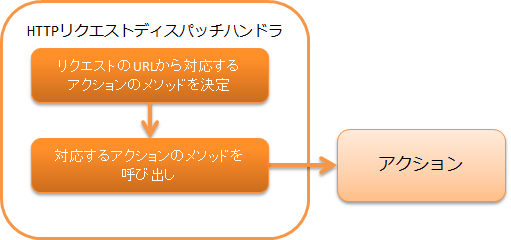
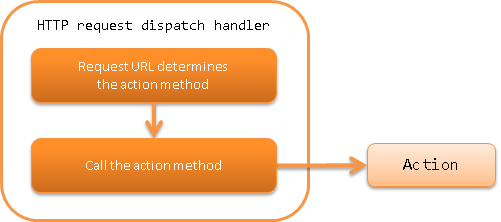
HTTPリクエストディスパッチハンドラページを英語化

diff --git a/en/application_framework/application_framework/handlers/web/http_request_java_package_mapping.rst b/en/application_framework/application_framework/handlers/web/http_request_java_package_mapping.rst
@@ -1,70 +1,70 @@
 .. _http_request_java_package_mapping:
 
-HTTPリクエストディスパッチハンドラ
+HTTP Request Dispatch Handler
 ==================================================
 
-.. contents:: 目次
+.. contents:: Table of contents
   :depth: 3
   :local:
 
 
-本ハンドラは、アプリケーションの機能ごとに行う処理を記載するアクションに処理を委譲する。\
-委譲先のクラス、メソッドは、アクセスしたURLによって決定される。\
-本クラスを使用したディスパッチでは、URL形式は下記の通りであることを想定している。
+This handler delegates processing to an action that describes the process to be performed for each function of the application.\
+The delegated class and method are determined by the accessed URL.\
+The URL format is assumed to be as follows for the dispatch using this class.
 
-URL形式
+URL format
   /\<baseUri\>/\<className\>/\<methodName\>
 
-上記形式の\<\>で囲まれた部分はそれぞれ下記を意味する。
+Each of the parts enclosed by \<\> in the above format have the following meanings.
 
 .. list-table::
   :class: white-space-normal
   :header-rows: 1
   :widths: 20 80
 
-  * - ラベル
-    - 意味
-  
+  * - Label
+    - Description
+
   * - baseUri
-    - コンテキストルートからの相対パス
+    - Relative path from the context root
 
   * - className
-    - クラス名
+    - Class name
 
-  * - methodName    
-    - アクションクラスのメソッド名は、HTTPのメソッド + メソッド名として実装する。
+  * - methodName
+    - Implement method name of action class as HTTP method + method name.
 
-      httpのメソッドが ``post`` の場合で、URLのmethodNameが ``register`` の場合には、
-      アクションクラスのメソッド名は、 ``postRegister`` とする。
+      When the http method is ``post`` and URL methodName is ``register``,
+      the action class method name is ``postRegister``.
 
-      なお、 ``get`` と ``post`` の場合には、 ``do`` を使用できる。
-      上記の例の場合、 ``doRegister`` となる。
+      In addition, ``do`` can be used for ``get`` and ``post``.
+      In the above example, it is ``doRegister``.
 
 .. tip::
-  URLとアクションとのマッピングの指定方法については、 :ref:`java_package_mapping_entry-dispatch_settings` を参照。
+  Refer to :ref:`java_package_mapping_entry-dispatch_settings` on how to specify the mapping between URL and action.
 
 .. _http_request_java_package_mapping-router_adaptor:
 
 .. important::
-  HTTPリクエストディスパッチハンドラでは、クラス名を元にURLが決まるため、柔軟なURLを使用することができない。
-  例えば、  ``/user/index`` のようなURLを使用したい場合、クラス名を ``user`` とする必要がある。
-  これは、Javaの一般的なクラス名の規約に違反しており、推奨されない。
+  Since the URL is decided based on the class name in the HTTP request dispatch handler, flexible URL cannot be used.
+  For example, to use ``/user/index`` as a URL, the class name has to be configured as ``user``.
+  This violates the general Java conventions for class name and is not recommended.
 
-  このため、このハンドラを使うよりも、URLとアクションクラスとのマッピングを柔軟に設定できる :ref:`router_adaptor` を使用することを推奨する。
+  Therefore, rather than using this handler, the use of :ref:`router_adaptor` is recommended that can flexibly configure the mapping between URL and action class.
 
-本ハンドラでは、以下の処理を行う。
+This handler performs the following process.
 
-* URIを解析し、対応するアクションのメソッドを呼び出す。
+* Analyzes the URI and calls the method of the corresponding action.
 
-処理の流れは以下のとおり。
+The process flow is as follows.
 
 .. image:: ../images/HttpRequestJavaPackageMapping/flow.png
 
-ハンドラクラス名
+Handler class name
 --------------------------------------------------
 * :java:extdoc:`nablarch.fw.web.handler.HttpRequestJavaPackageMapping`
 
-モジュール一覧
+Module list
 --------------------------------------------------
 .. code-block:: xml
 
@@ -72,22 +72,22 @@ URL形式
     <groupId>com.nablarch.framework</groupId>
     <artifactId>nablarch-fw-web</artifactId>
   </dependency>
-  
-制約
+
+Constraints
 -----------------------
 
-ハンドラキューの最後に置くこと
-  本ハンドラは、後続のハンドラの呼び出しを行わない。
-  このため、本ハンドラの配置はハンドラキューの最後に置くこと。
+Should be placed at the end of the handler queue
+  This handler does not call subsequent handlers.
+  Therefore, place this handler at the end of the handler queue.
 
 
 .. _java_package_mapping_entry-dispatch_settings:
 
-ディスパッチの設定を行う
+Configure dispatch settings
 ----------------------------------------------------------------------------------------------------
 
-本クラスを使用する際は、前述の baseUri と、アクションを配置するパッケージ(ベースパッケージ)の設定が必須となる。
-以下にbaseUri を ``action`` 、ベースパッケージを ``jp.co.tis.nablarch.example`` に設定する例を示す。
+When using this class, baseUri described above and package (base package) in which the action is placed are required to be configured.
+Below is an example of configuring baseUri to ``action`` and base package to ``jp.co.tis.nablarch.example``.
 
 .. code-block:: xml
 
@@ -97,21 +97,21 @@ URL形式
     <property name="basePackage" value="jp.co.tis.nablarch.example"/>
   </component>
 
-上記設定の場合のディスパッチ例を以下に示す。
+A dispatch example for the above configuration is shown below.
 
 :URL: /action/UserAction/index
-:ディスパッチ先クラス: jp.co.tis.nablarch.example.UserAction
+:Dispatch destination class: jp.co.tis.nablarch.example.UserAction
 
 .. _java_package_mapping_entry-multi_package:
 
-アクションが複数のパッケージに配置される場合の設定を行う
+Configure settings when actions are placed in multiple packages
 -------------------------------------------------------------------------------------
 
-アクションは、複数のパッケージにまたがって配置できる。
-この場合、前述の :ref:`java_package_mapping_entry-dispatch_settings` に記載のベースパッケージを全Actionが置かれるパッケージに
-設定し、URIのクラス名にベースパッケージから対応づける Action までのパスを記載する。
+Actions can be placed across multiple packages.
+In this case, configure the base package described in :ref:`java_package_mapping_entry-dispatch_settings` above to the package
+where all Actions are placed, and describe the path from the base package to the corresponding Action in the URI class name.
 
-以下にクラスの配置とURLの対応付けの例を示す。
+An example of class allocation and URL mapping is shown below.
 
 .. image:: ../images/HttpRequestJavaPackageMapping/package_mapping.png
 
